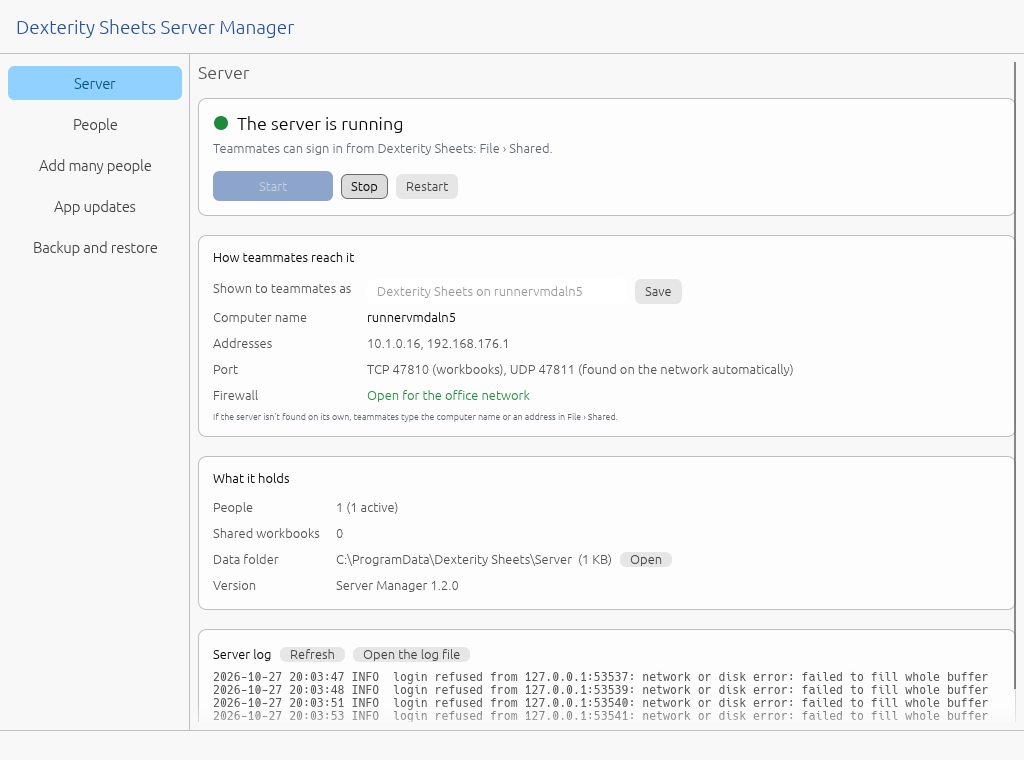
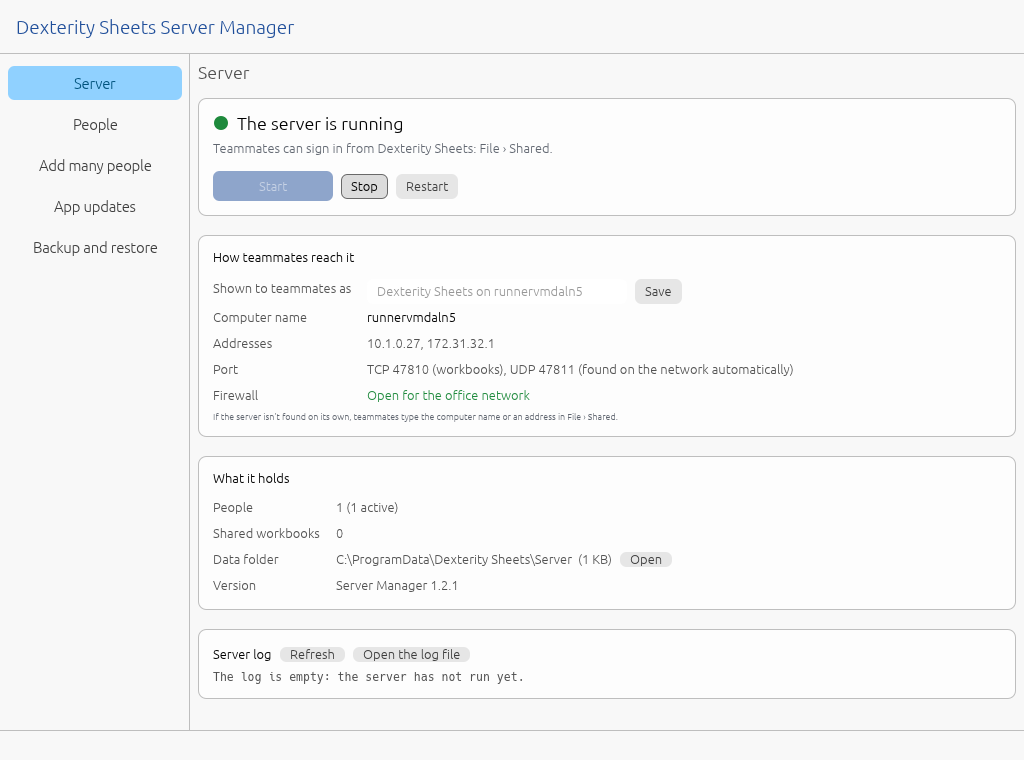
Docs: refresh README and screenshots for 1.2.1

Changed region(s): [[0.1875, 0.8776, 0.9688, 0.9684], [0.4375, 0.4237, 0.4688, 0.4539]]

diff --git a/README.md b/README.md
@@ -9,7 +9,7 @@
 </p>
 
 <p align="center">
-  <sub><!-- dex:release -->Version <b>1.2.0</b> · 27 October 2026 · based on GridCraft 0.12.1<!-- /dex:release --> · Windows 10 and 11 · no administrator rights needed · updates itself</sub>
+  <sub><!-- dex:release -->Version <b>1.2.1</b> · 27 October 2026 · based on GridCraft 0.12.1<!-- /dex:release --> · Windows 10 and 11 · no administrator rights needed · updates itself</sub>
 </p>
 
 <p align="center">
@@ -94,14 +94,9 @@
 ## What's new
 
 <!-- dex:whatsnew -->
-- The office server installs from **DexSheetsServer-Setup.exe** (or the .msi): a Windows service that starts with Windows and restarts itself, the firewall opened for the office network only, the data folder locked to administrators.
-- New **Server Manager** for IT: start and stop the server, see how teammates reach it, add people one by one or many at once (type them, paste from Excel, or import a filled-in template), reset passwords, change roles, disable or remove people, manage app updates, back up and restore. No commands to type.
-- The office server never offers its own installer to office PCs as an app update.
-- Deleting a shared workbook on the server now works on Windows even after someone has opened it.
-- Fixed: if the server PC lost power in the middle of saving an edit, the next edit could be lost at the following restart. It is now kept.
-- A damaged snapshot on the server is now recognised and the previous good one is used, instead of showing a near-empty workbook.
+- The server log no longer fills with "login refused" lines every few seconds while the Server Manager is open: its "is the server running" check is no longer counted as a failed sign-in. Real failed sign-ins are still logged and slowed down.
 
-[Everything in 1.2.0](https://github.com/vikramdex-ops/dexterity-sheets/releases/tag/v1.2.0) and 1 more.
+[Everything in 1.2.1](https://github.com/vikramdex-ops/dexterity-sheets/releases/tag/v1.2.1).
 <!-- /dex:whatsnew -->
 
 Dexterity Sheets is built on the open-source [GridCraft](https://github.com/storytold/gridcraft)

diff --git a/packaging/dexterity/CHANGES.md b/packaging/dexterity/CHANGES.md
@@ -8,6 +8,8 @@ automatically and don't go here.
 
 ## Unreleased
 
+## 1.2.1 · 27 October 2026
+
 - The server log no longer fills with "login refused" lines every few seconds while the Server Manager is open: its "is the server running" check is no longer counted as a failed sign-in. Real failed sign-ins are still logged and slowed down.
 
 ## 1.2.0 · 27 October 2026
